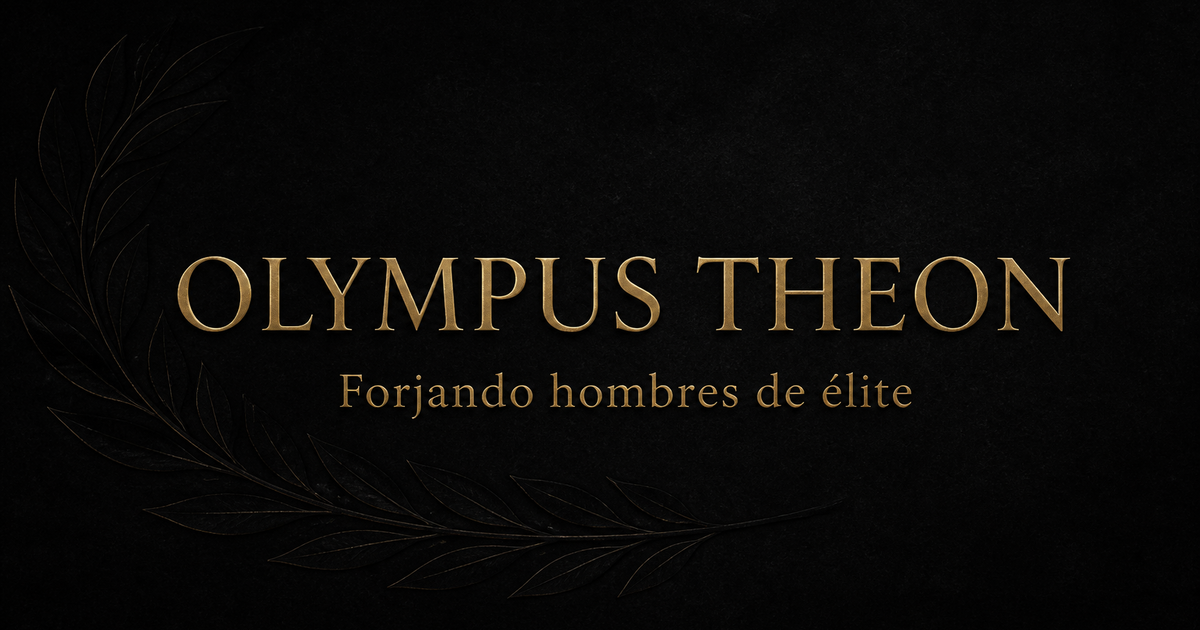
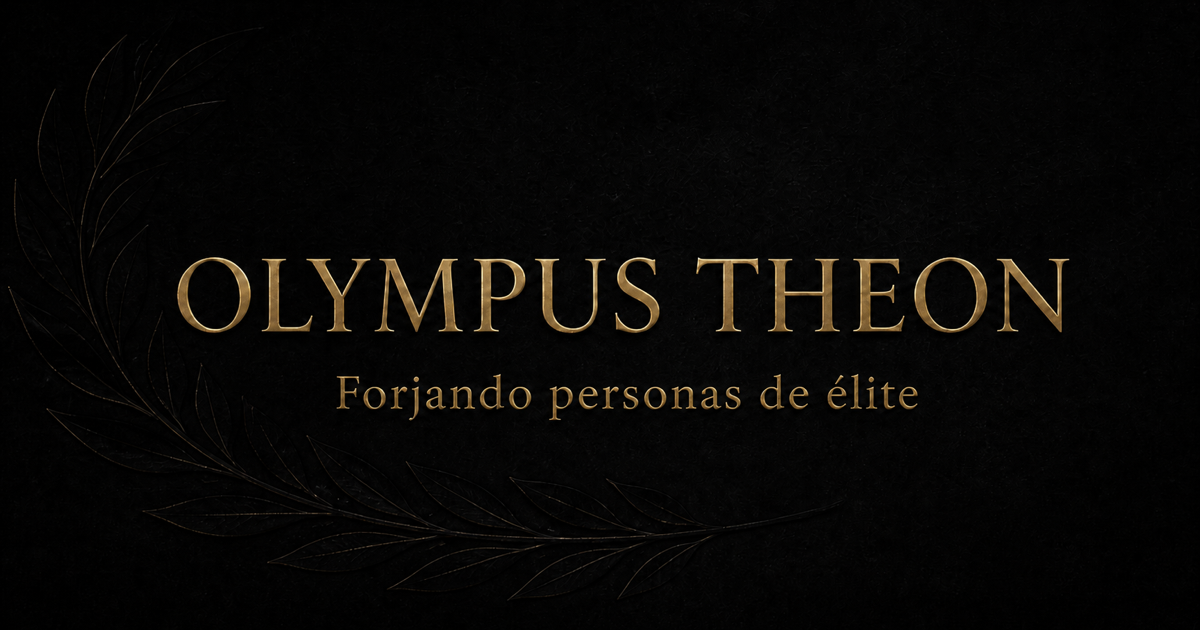
Amplia la marca a una audiencia inclusiva

diff --git a/app/[locale]/programas/page.tsx b/app/[locale]/programas/page.tsx
@@ -5,11 +5,11 @@ import { DEFAULT_LOCALE, SITE_NAME, SITE_URL } from '@/lib/seo';
 
 export const metadata: Metadata = {
     title: "Programas",
-    description: "Arsenal de desarrollo personal. The Spartan Protocol, Consultoría 1-a-1 y Elite Brotherhood. Elige tu camino hacia la excelencia.",
+    description: "Arsenal de desarrollo personal. The Spartan Protocol, Consultoría 1-a-1 y Elite Community. Elige tu camino hacia la excelencia.",
     alternates: { canonical: `${SITE_URL}/programas` },
     openGraph: {
         title: "Programas | Olympus Theon",
-        description: "The Spartan Protocol, Consultoría 1-a-1 y Elite Brotherhood. Elige tu camino hacia la excelencia.",
+        description: "The Spartan Protocol, Consultoría 1-a-1 y Elite Community. Elige tu camino hacia la excelencia.",
         url: `${SITE_URL}/programas`,
         siteName: SITE_NAME,
         locale: DEFAULT_LOCALE,
@@ -18,7 +18,7 @@ export const metadata: Metadata = {
     twitter: {
         card: 'summary_large_image',
         title: 'Programas | Olympus Theon',
-        description: 'The Spartan Protocol, Consultoría 1-a-1 y Elite Brotherhood.',
+        description: 'The Spartan Protocol, Consultoría 1-a-1 y Elite Community.',
         images: [`${SITE_URL}/og.png`],
     },
 };
@@ -102,7 +102,7 @@ export default function ProgramasPage() {
                             </div>
                         </ScrollReveal>
 
-                        {/* Program 3: Elite Brotherhood (Optional Community) */}
+                        {/* Program 3: Elite Community (Optional Community) */}
                         <ScrollReveal variant="slideScale" direction="up" delay={400}>
                             <div className="program-card">
                                 <div className="program-badge">COMUNIDAD</div>
@@ -113,19 +113,19 @@ export default function ProgramasPage() {
                                         <path d="M23 21v-2a4 4 0 0 0-3-3.87M16 3.13a4 4 0 0 1 0 7.75" strokeLinecap="round" strokeLinejoin="round" />
                                     </svg>
                                 </div>
-                                <h3 className="program-title">ELITE BROTHERHOOD</h3>
+                                <h3 className="program-title">ELITE COMMUNITY</h3>
                                 <p className="program-description">
-                                    Membresía mensual a la hermandad de hombres de alto rendimiento. Networking, recursos premium y eventos exclusivos.
+                                    Membresía mensual para una comunidad de personas comprometidas con el alto rendimiento. Conexiones, recursos premium y eventos exclusivos.
                                 </p>
                                 <ul className="program-benefits">
                                     <li>✓ Acceso a comunidad privada de élite</li>
                                     <li>✓ Masterclasses mensuales exclusivas</li>
                                     <li>✓ Biblioteca de recursos en expansión</li>
-                                    <li>✓ Networking con hombres de alto nivel</li>
+                                    <li>✓ Conexiones con personas de alto nivel</li>
                                     <li>✓ Descuentos en otros programas</li>
                                 </ul>
                                 <div className="program-price">Mensual  •  Consultar inversión</div>
-                                <a href="https://wa.me/34608961701?text=Quiero%20información%20sobre%20Elite%20Brotherhood" target="_blank" rel="noopener noreferrer" className="program-btn">
+                                <a href="https://wa.me/34608961701?text=Quiero%20información%20sobre%20Elite%20Community" target="_blank" rel="noopener noreferrer" className="program-btn">
                                     MÁS INFORMACIÓN
                                 </a>
                             </div>
@@ -142,9 +142,9 @@ export default function ProgramasPage() {
                 <div className="container">
                     <ScrollReveal variant="scale">
                         <div className="cta-content-wrapper">
-                            <h2 className="cta-main-title">¿LISTO PARA LA TRANSFORMACIÓN?</h2>
+                            <h2 className="cta-main-title">¿ES EL MOMENTO DE TU TRANSFORMACIÓN?</h2>
                             <p className="cta-main-description">
-                                No aceptamos a todos. Si estás preparado para comprometerte completamente con tu transformación, da el primer paso.
+                                Si quieres comprometerte plenamente con tu transformación, da el primer paso y descubre qué programa encaja contigo.
                             </p>
                             <div className="cta-whatsapp-container" style={{ marginBottom: 0 }}>
                                 <a href="https://wa.me/34608961701?text=Quiero%20comenzar%20mi%20transformación%20con%20Olympus%20Theon" target="_blank" rel="noopener noreferrer" className="btn-cta-whatsapp">

diff --git a/app/layout.tsx b/app/layout.tsx
@@ -20,11 +20,11 @@ const dancingScript = localFont({
 
 export const metadata: Metadata = {
     title: {
-        default: "Olympus Theon | Forjando Hombres de Élite",
+        default: "Olympus Theon | Forjando Personas de Élite",
         template: "%s | Olympus Theon"
     },
-    description: "Potenciando la masculinidad y la filosofía del esfuerzo absoluto. Programas de coaching, mentoría y desarrollo personal para hombres.",
-    keywords: ["coaching masculino", "desarrollo personal", "mentoría hombres", "alto rendimiento", "estoicismo", "Olympus Theon"],
+    description: "Carácter, disciplina y filosofía del esfuerzo absoluto. Programas de coaching, mentoría y desarrollo personal para personas comprometidas con su crecimiento.",
+    keywords: ["coaching personal", "desarrollo personal", "mentoría de alto rendimiento", "disciplina", "estoicismo", "Olympus Theon"],
     authors: [{ name: AUTHOR_NAME, url: `${SITE_URL}/#fundador` }],
     creator: SITE_NAME,
     metadataBase: new URL(SITE_URL),
@@ -33,21 +33,21 @@ export const metadata: Metadata = {
         locale: DEFAULT_LOCALE,
         url: SITE_URL,
         siteName: SITE_NAME,
-        title: "Olympus Theon | Forjando Hombres de Élite",
-        description: "Potenciando la masculinidad y la filosofía del esfuerzo absoluto. Programas de coaching y desarrollo personal.",
+        title: "Olympus Theon | Forjando Personas de Élite",
+        description: "Carácter, disciplina y filosofía del esfuerzo absoluto. Programas de coaching y desarrollo personal.",
         images: [
             {
                 url: "/og.png",
                 width: 1200,
                 height: 630,
-                alt: "Olympus Theon - Forjando Hombres de Élite",
+                alt: "Olympus Theon - Forjando Personas de Élite",
             },
         ],
     },
     twitter: {
         card: "summary_large_image",
-        title: "Olympus Theon | Forjando Hombres de Élite",
-        description: "Potenciando la masculinidad y la filosofía del esfuerzo absoluto.",
+        title: "Olympus Theon | Forjando Personas de Élite",
+        description: "Carácter, disciplina y filosofía del esfuerzo absoluto.",
         images: ["/og.png"],
     },
     robots: {
@@ -115,7 +115,7 @@ export default function RootLayout({
                                         "name": AUTHOR_NAME,
                                         "url": `${SITE_URL}/#fundador`
                                     },
-                                    "description": "Potenciando la masculinidad y la filosofía del esfuerzo absoluto.",
+                                    "description": "Carácter, disciplina y filosofía del esfuerzo absoluto.",
                                     "sameAs": [
                                         "https://wa.me/34608961701"
                                     ]

diff --git a/components/ProgramsFAQ.tsx b/components/ProgramsFAQ.tsx
@@ -10,8 +10,8 @@ interface FAQItem {
 
 const faqData: FAQItem[] = [
     {
-        question: "¿Es para principiantes?",
-        answer: "Nuestros programas están diseñados tanto para principiantes ambiciosos como para hombres que ya han comenzado su transformación pero buscan llevarla al siguiente nivel. Adaptamos la intensidad según tu punto de partida, pero todos siguen los mismos principios de excelencia."
+        question: "¿Puedo empezar desde cero?",
+        answer: "Nuestros programas están diseñados tanto para personas que empiezan desde cero como para quienes ya han iniciado su transformación y quieren llevarla al siguiente nivel. Adaptamos la intensidad al punto de partida de cada participante, manteniendo los mismos principios de excelencia."
     },
     {
         question: "¿Cuánto tiempo requiere?",
@@ -19,15 +19,15 @@ const faqData: FAQItem[] = [
     },
     {
         question: "¿Qué incluye el programa?",
-        answer: "Acceso completo a protocolos de entrenamiento, planes de nutrición personalizados, sesiones de coaching en vivo, biblioteca de recursos sobre estoicismo y desarrollo masculino, comunidad privada de élite, y seguimiento semanal de progreso."
+        answer: "Acceso completo a protocolos de entrenamiento, planes de nutrición personalizados, sesiones de coaching en vivo, biblioteca de recursos sobre estoicismo y desarrollo personal, comunidad privada de élite y seguimiento semanal del progreso."
     },
     {
         question: "¿Hay garantía de resultados?",
-        answer: "Garantizamos resultados solo para aquellos que se comprometen completamente. Si sigues el protocolo al 100% durante 12 semanas y no ves transformación medible (física, mental, espiritual), trabajamos contigo hasta que la alcances. La mediocridad no es una opción."
+        answer: "Los resultados dependen del punto de partida, la constancia y el cumplimiento del plan; no existen resultados automáticos. Sí ofrecemos una metodología estructurada, seguimiento y ajustes durante todo el proceso."
     },
     {
         question: "¿Cómo es el proceso de aplicación?",
-        answer: "Iniciamos con una entrevista de admisión donde evaluamos tu compromiso, situación actual y objetivos. No aceptamos a todos. Buscamos hombres dispuestos a hacer el trabajo duro. Tras la aprobación, recibes acceso inmediato y comenzamos tu transformación."
+        answer: "Iniciamos con una entrevista donde conocemos tu situación actual, objetivos y nivel de compromiso. Buscamos personas dispuestas a realizar el trabajo necesario. Si el programa encaja contigo, definimos el punto de partida y comenzamos el proceso."
     }
 ];
 

diff --git a/components/CEOSection.tsx b/components/CEOSection.tsx
@@ -27,13 +27,13 @@ export default function CEOSection() {
                         <ScrollReveal direction="right" variant="fade" delay={400}>
                             <div className="ceo-bio">
                                 <p>
-                                    Visionario. Líder. Estoico. Alejandro fundó Olympus Theon con una misión singular: forjar la próxima generación de hombres de élite. Con experiencia en atletismo de alto rendimiento y un profundo estudio de la filosofía clásica, combina disciplina física con fortaleza mental.
+                                    Visionario. Líder. Estoico. Alejandro fundó Olympus Theon con una misión singular: forjar la próxima generación de personas de élite. Con experiencia en atletismo de alto rendimiento y un profundo estudio de la filosofía clásica, combina disciplina física con fortaleza mental.
                                 </p>
                             </div>
                         </ScrollReveal>
                         <ScrollReveal direction="right" variant="slideScale" delay={600}>
                             <blockquote className="ceo-quote">
-                                &quot;No solo construimos cuerpos; construimos carácter. El mundo moderno necesita hombres fuertes: capaces, responsables y virtuosos. Ese es el estándar que establecemos aquí.&quot;
+                                &quot;No solo construimos cuerpos; construimos carácter. El mundo moderno necesita personas fuertes: capaces, responsables y virtuosas. Ese es el estándar que establecemos aquí.&quot;
                             </blockquote>
                         </ScrollReveal>
                     </div>

diff --git a/app/[locale]/books/page.tsx b/app/[locale]/books/page.tsx
@@ -5,7 +5,7 @@ import { DEFAULT_LOCALE, SITE_NAME, SITE_URL } from '@/lib/seo';
 
 export const metadata: Metadata = {
     title: "Biblioteca",
-    description: "Conocimiento esencial para el hombre moderno. Libros sobre desarrollo personal, filosofía estoica y alto rendimiento.",
+    description: "Lecturas para cultivar disciplina, criterio y propósito. Libros sobre desarrollo personal, filosofía estoica y alto rendimiento.",
     alternates: { canonical: `${SITE_URL}/books` },
     openGraph: {
         title: "Biblioteca | Olympus Theon",
@@ -40,7 +40,7 @@ export default async function BooksPage() {
                         BIBLIOTECA
                     </h1>
                     <p className="page-hero-subtitle">
-                        Conocimiento esencial para el hombre moderno.
+                        Conocimiento esencial para una vida con propósito.
                     </p>
                 </div>
             </div>

diff --git a/components/Hero.tsx b/components/Hero.tsx
@@ -115,8 +115,8 @@ export default function Hero() {
             }}></div>
 
             <div className="container hero-content" style={{ position: 'relative', zIndex: 1 }}>
-                <h1 className="hero-title">FORJANDO HOMBRES DE ÉLITE</h1>
-                <p className="hero-subtitle">Potenciando la masculinidad y la filosofía del esfuerzo absoluto.</p>
+                <h1 className="hero-title">FORJANDO PERSONAS DE ÉLITE</h1>
+                <p className="hero-subtitle">Potenciando el carácter, la disciplina y la filosofía del esfuerzo absoluto.</p>
 
                 <div className="hero-actions">
                     <a href="#method" className="btn btn-primary" onClick={(e) => {

diff --git a/app/[locale]/contact/page.tsx b/app/[locale]/contact/page.tsx
@@ -96,7 +96,7 @@ export default function ContactPage() {
                             lineHeight: '1.65',
                             fontWeight: '300'
                         }}>
-                            El viaje de todo hombre de élite comienza con un primer paso. Ya sea que estés listo para forjar tu camino o tengas preguntas sobre nuestra filosofía, estamos aquí para guiarte.
+                            Todo camino hacia la excelencia comienza con un primer paso. Si quieres forjar el tuyo o tienes preguntas sobre nuestra filosofía, estamos aquí para guiarte.
                         </p>
                     </div>
                 </ScrollReveal>

diff --git a/components/CTASection.tsx b/components/CTASection.tsx
@@ -8,7 +8,7 @@ export default function CTASection() {
                 <div className="cta-content-wrapper">
                     <ScrollReveal variant="fade">
                         <h2 className="cta-main-title">
-                            ¿LISTO PARA LA<br />TRANSFORMACIÓN?
+                            ¿ES EL MOMENTO DE TU<br />TRANSFORMACIÓN?
                         </h2>
                     </ScrollReveal>
 

diff --git a/components/FooterNewsletterForm.tsx b/components/FooterNewsletterForm.tsx
@@ -23,7 +23,7 @@ export default function FooterNewsletterForm() {
 
             if (response.ok) {
                 setStatus('success');
-                setMessage('Bienvenido a la élite.');
+                setMessage('Ya formas parte de la élite.');
                 setEmail('');
             } else {
                 setStatus('error');
